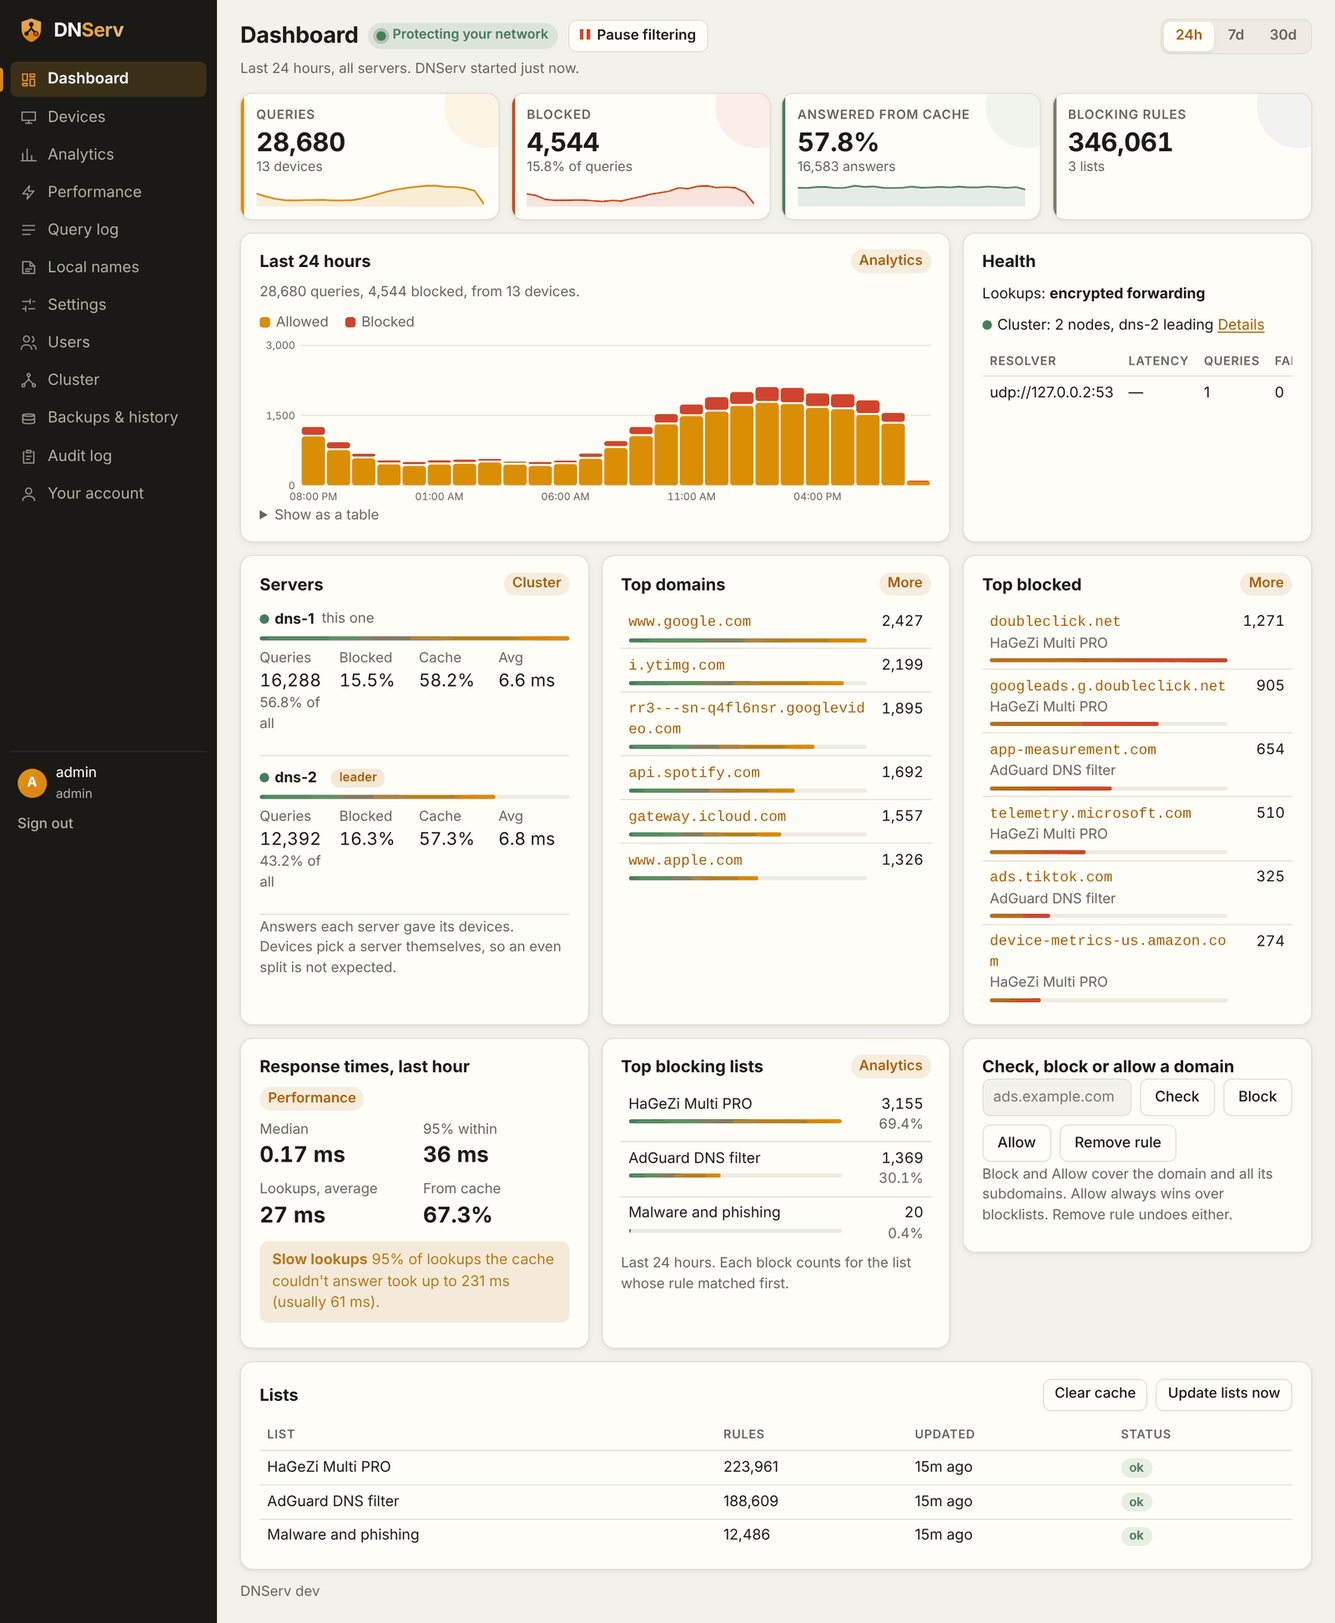
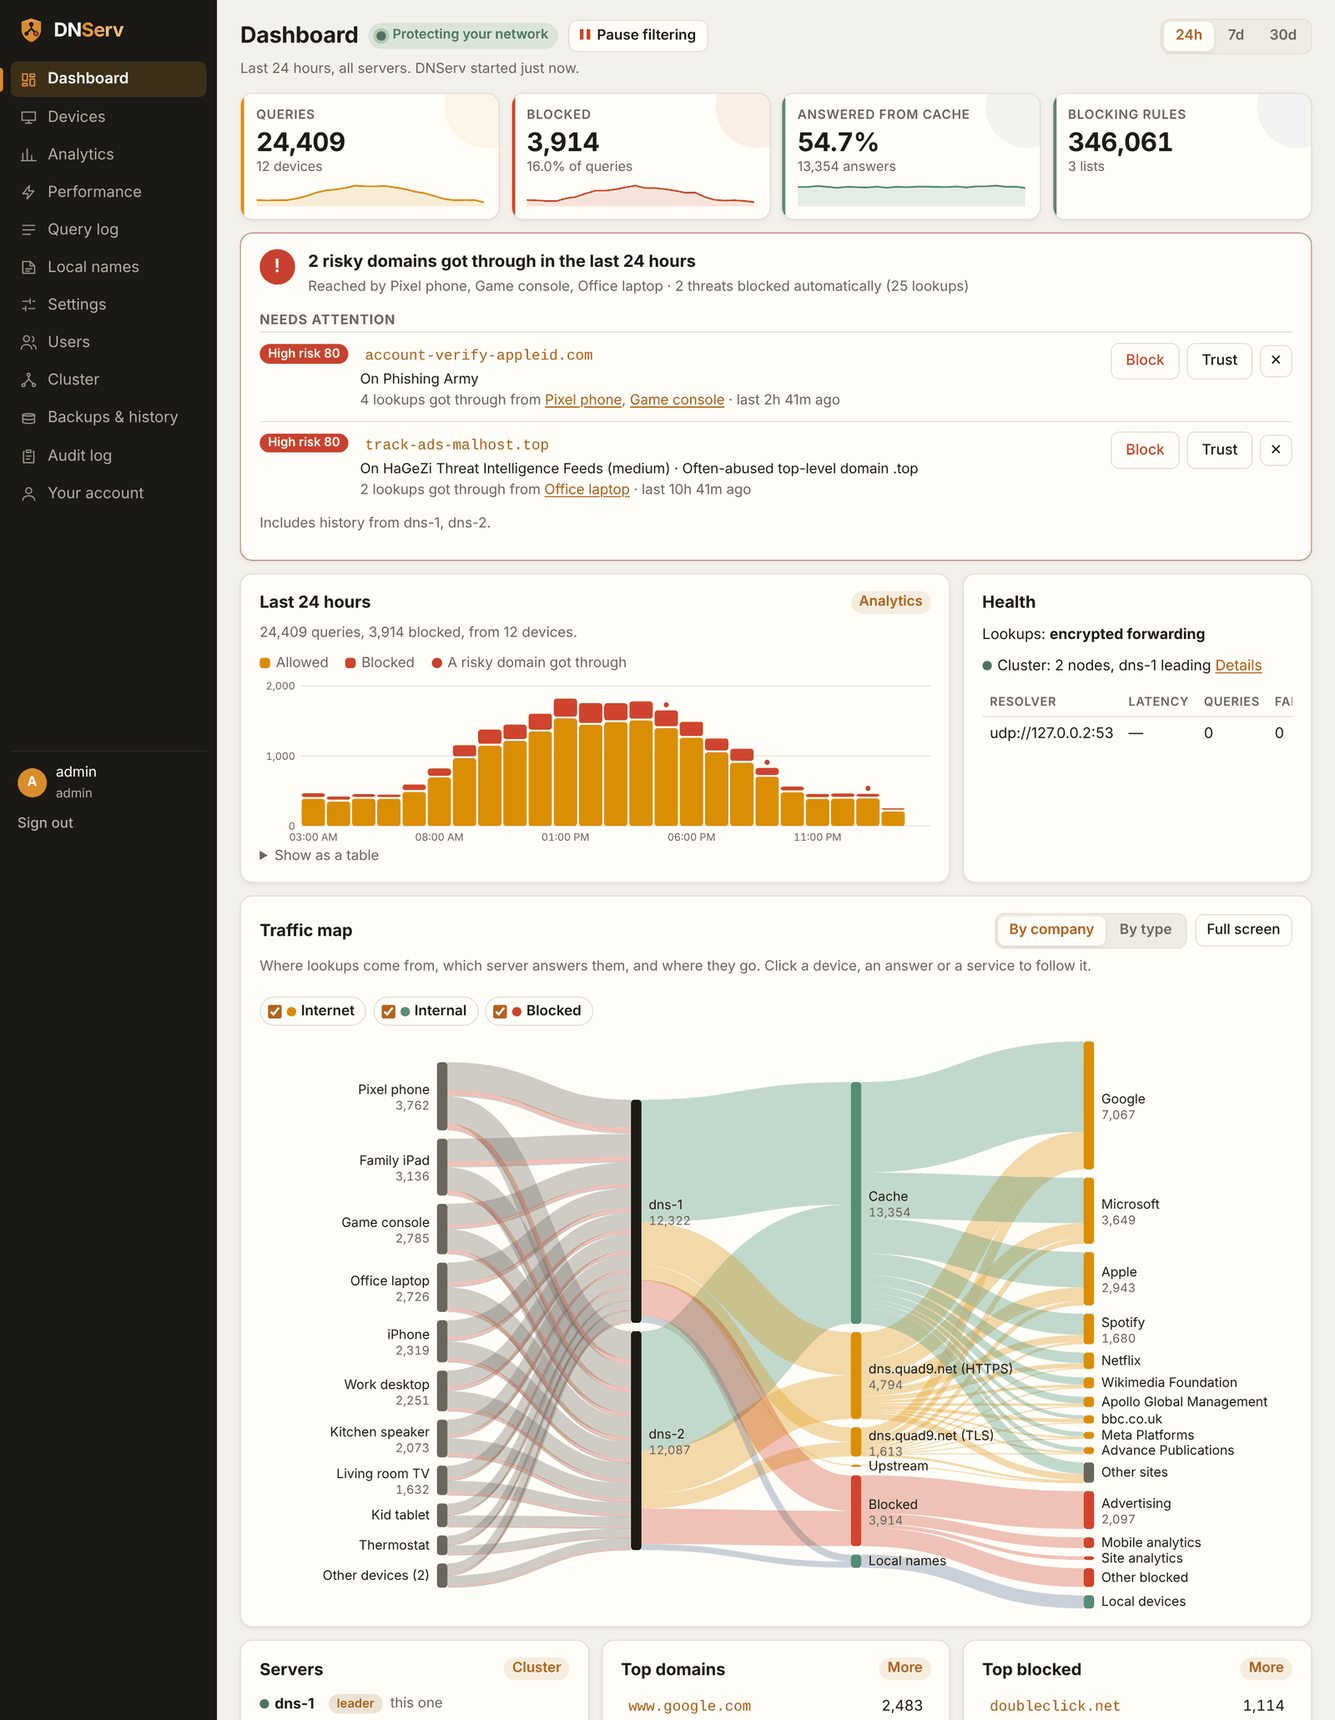
Document security overview, traffic map and risk scoring
Add docs/security.md (Security card, risk filter, how scores add up,
tuning presets), new screenshots, README and website sections, and the
new API endpoints.

Claude-Session: https://claude.ai/code/session_01KvRQSDP8d99xeGF8qB7DEA

diff --git a/site/index.html b/site/index.html
@@ -63,7 +63,7 @@ header nav a:hover { color: var(--text); text-decoration: none; }
 section { padding: 72px 0 0; }
 section h2 { font-size: 2rem; margin: 0 0 8px; letter-spacing: -.01em; }
 section p.sub { color: var(--muted); margin: 0 0 32px; max-width: 720px; }
-.grid { display: grid; grid-template-columns: repeat(auto-fill, minmax(250px, 1fr)); gap: 16px; }
+.grid { display: grid; grid-template-columns: repeat(auto-fill, minmax(300px, 1fr)); gap: 16px; }
 .card { background: var(--panel); border: 1px solid var(--line); border-radius: var(--radius); padding: 22px; }
 .card h3 { margin: 10px 0 6px; font-size: 1.05rem; }
 .card p { margin: 0; color: var(--muted); font-size: .95rem; }
@@ -136,7 +136,8 @@ footer .wrap { display: flex; gap: 16px; flex-wrap: wrap; justify-content: space
     <div class="card"><div class="ico"><svg viewBox="0 0 24 24" fill="none" stroke="currentColor" stroke-width="2" stroke-linecap="round" stroke-linejoin="round"><path d="M13 2 3 14h9l-1 8 10-12h-9z"/></svg></div><h3>Fast</h3><p>A two-layer cache, prefetching of popular names, and old answers kept ready if the internet drops.</p></div>
     <div class="card"><div class="ico red"><svg viewBox="0 0 24 24" fill="none" stroke="currentColor" stroke-width="2" stroke-linecap="round"><circle cx="12" cy="12" r="9"/><path d="m5.6 5.6 12.8 12.8"/></svg></div><h3>Blocks ads, trackers and malware</h3><p>Any hosts file, domain list or AdGuard-style list, with wildcards and regex, plus your own allow and block rules.</p></div>
     <div class="card"><div class="ico"><svg viewBox="0 0 24 24" fill="none" stroke="currentColor" stroke-width="2" stroke-linecap="round" stroke-linejoin="round"><rect x="3" y="4" width="18" height="12" rx="2"/><path d="M8 20h8M12 16v4"/></svg></div><h3>Rules per device</h3><p>Groups like Kids, with their own blocked services, safe search, and schedules for bedtime or homework.</p></div>
-    <div class="card"><div class="ico sage"><svg viewBox="0 0 24 24" fill="none" stroke="currentColor" stroke-width="2" stroke-linecap="round"><path d="M4 19V5M4 19h16M8 15v-4M12 15V8M16 15v-6"/></svg></div><h3>See what's going on</h3><p>Query log, analytics, response times and risk scores from public threat feeds, kept for 30 days.</p></div>
+    <div class="card"><div class="ico sage"><svg viewBox="0 0 24 24" fill="none" stroke="currentColor" stroke-width="2" stroke-linecap="round"><path d="M4 19V5M4 19h16M8 15v-4M12 15V8M16 15v-6"/></svg></div><h3>See what's going on</h3><p>Query log, analytics, response times, and a traffic map from every device through your servers to the services it reaches.</p></div>
+    <div class="card"><div class="ico red"><svg viewBox="0 0 24 24" fill="none" stroke="currentColor" stroke-width="2" stroke-linecap="round" stroke-linejoin="round"><path d="M12 3 4 6v6c0 5 3.5 8 8 9 4.5-1 8-4 8-9V6z"/><path d="M12 8v5M12 16h0"/></svg></div><h3>Spots threats</h3><p>Every lookup is scored against public malware and phishing feeds. See what got through, who reached it, and block it in one click.</p></div>
     <div class="card"><div class="ico sage"><svg viewBox="0 0 24 24" fill="none" stroke="currentColor" stroke-width="2" stroke-linecap="round" stroke-linejoin="round"><rect x="3" y="4" width="8" height="16" rx="2"/><rect x="13" y="4" width="8" height="16" rx="2"/><path d="M7 8h0M17 8h0"/></svg></div><h3>Keeps working when a server fails</h3><p>Run two or more nodes. Settings stay in sync, and any node can take over as leader.</p></div>
     <div class="card"><div class="ico"><svg viewBox="0 0 24 24" fill="none" stroke="currentColor" stroke-width="2" stroke-linecap="round" stroke-linejoin="round"><rect x="5" y="11" width="14" height="10" rx="2"/><path d="M8 11V7a4 4 0 0 1 8 0v4"/></svg></div><h3>Private</h3><p>Encrypted DNS to Cloudflare or Quad9, or its own recursive resolver (Unbound), optionally through a VPN.</p></div>
     <div class="card"><div class="ico"><svg viewBox="0 0 24 24" fill="none" stroke="currentColor" stroke-width="2" stroke-linecap="round" stroke-linejoin="round"><path d="M12 3 4 6v6c0 5 3.5 8 8 9 4.5-1 8-4 8-9V6z"/><path d="m9 12 2 2 4-4"/></svg></div><h3>Safe to run</h3><p>Two-factor sign-in for every account, admin, power-user and viewer roles, an audit log, encrypted backups, and HTTPS.</p></div>
@@ -148,12 +149,14 @@ footer .wrap { display: flex; gap: 16px; flex-wrap: wrap; justify-content: space
   <h2>A dashboard you'll actually open</h2>
   <p class="sub">Light and dark themes, made for a phone as much as a desktop.</p>
   <div class="gallery">
+    <figure><img src="images/security.png" alt="Security card" loading="lazy"><figcaption><b>Security</b> says whether anything risky got through, and who reached it.</figcaption></figure>
+    <figure><img src="images/traffic-map.png" alt="Traffic map" loading="lazy"><figcaption><b>Traffic map</b> follows lookups from devices to servers to services.</figcaption></figure>
     <figure><img src="images/query-log.png" alt="Query log" loading="lazy"><figcaption><b>Query log</b> searches every server's history.</figcaption></figure>
     <figure><img src="images/analytics.png" alt="Analytics" loading="lazy"><figcaption><b>Analytics</b> shows top domains, what blocked them, and busy devices.</figcaption></figure>
     <figure><img src="images/performance.png" alt="Performance" loading="lazy"><figcaption><b>Performance</b> tracks response times, upstream health and anything unusual.</figcaption></figure>
     <figure><img src="images/cluster.png" alt="Cluster" loading="lazy"><figcaption><b>Cluster</b> shows your servers, with leader controls and join codes.</figcaption></figure>
     <figure><img src="images/group.png" alt="Group settings with schedules" loading="lazy"><figcaption><b>Groups</b> get blocked services, safe search and schedules.</figcaption></figure>
-    <figure><img src="images/dashboard-light.png" alt="Light theme" loading="lazy"><figcaption><b>Light theme</b>, following your system setting.</figcaption></figure>
+    <figure><img src="images/scoring.png" alt="Tune risk scoring" loading="lazy"><figcaption><b>Risk scoring</b> explains every score, with presets and a preview when you tune it.</figcaption></figure>
   </div>
 </div></section>
 
@@ -187,6 +190,7 @@ docker logs dnserv 2>&amp;1 | grep setup_code</pre>
     <a href="https://github.com/prezmc/DNServ/blob/main/docs/deploy-two-servers.md">Two-server guide<span>Deploy and failure scenarios</span></a>
     <a href="https://github.com/prezmc/DNServ/blob/main/docs/clustering.md">Clustering<span>Nodes, witnesses, recovery</span></a>
     <a href="https://github.com/prezmc/DNServ/blob/main/docs/filtering.md">Filtering<span>Rules, services, safe search</span></a>
+    <a href="https://github.com/prezmc/DNServ/blob/main/docs/security.md">Security<span>Threat feeds and risk scores</span></a>
     <a href="https://github.com/prezmc/DNServ/blob/main/docs/https.md">Dashboard HTTPS<span>Self-signed, your own, or NPM</span></a>
     <a href="https://github.com/prezmc/DNServ/blob/main/docs/backups.md">Backups<span>Encrypted, scheduled, restorable</span></a>
     <a href="https://github.com/prezmc/DNServ/blob/main/docs/adguard-import.md">From AdGuard Home<span>What the importer brings</span></a>

diff --git a/docs/security.md b/docs/security.md
@@ -1,0 +1,126 @@
+# Security overview and risk scoring
+
+DNServ checks every domain your devices look up against public threat
+feeds and a few checks on the name itself, and gives it a risk score from
+0 to 100. **Scores never block anything.** They decide what the
+Dashboard, Analytics and the Query log point out, so you can decide what
+to block.
+
+<p align="center"><img src="images/security.png" alt="Security card on the Dashboard" width="800"></p>
+
+## What you see
+
+- **Dashboard → Security.** A verdict for the period: "All clear: nothing
+  risky got through", or how many high-risk domains your devices got
+  answers for, who reached them, and how many threats were blocked anyway.
+  **Needs attention** lists each one with why it's risky, the devices
+  (each opens its Query log) and when, and three buttons:
+  - **Block** blocks it and its subdomains for every device.
+  - **Trust** marks it as a false alarm: it scores 0 from then on.
+  - **Dismiss** hides it until a device reaches it again. Dismissals are
+    shared by every server.
+
+  The card also names any feed that isn't being checked (no abuse.ch key,
+  or a failed download).
+- **The queries chart** marks the hours when something risky got through.
+- **Analytics → Risky domains** lists the riskiest domains seen, for
+  everyone or one device.
+- **Query log** shows a badge on risky lookups (hover for why) and filters
+  by risk: low and above, medium and above, or high only. The CSV export
+  follows the filter.
+- **Domain details** show the score, the reasons and **how the score adds
+  up**, or that the domain was checked and nothing was found.
+
+## Where the data comes from
+
+| Source | Lists | Default points |
+|---|---|---|
+| [URLhaus](https://urlhaus.abuse.ch/) (abuse.ch) | Malware hosts | 90 |
+| [ThreatFox](https://threatfox.abuse.ch/) (abuse.ch) | Malware and command servers | 90 |
+| [Phishing Army](https://phishing.army/) | Phishing sites | 80 |
+| [HaGeZi Threat Intelligence Feeds](https://github.com/hagezi/dns-blocklists) (medium) | Malware, scams, command servers (covers subdomains) | 70 |
+| [Feodo Tracker](https://feodotracker.abuse.ch/) (abuse.ch) | Botnet command server addresses | 90 |
+| [Spamhaus DROP](https://www.spamhaus.org/drop/) | Hijacked or criminal networks | 85 |
+
+URLhaus and ThreatFox need a free abuse.ch Auth-Key: sign in at
+[auth.abuse.ch](https://auth.abuse.ch/), copy the key from your profile,
+and paste it under **Settings → abuse.ch key**. The key is shared with
+your other servers, never shown again and not part of backups.
+
+Each server downloads the sources itself, keeps them in `/data/threat`,
+and refreshes them twice a day (about 30 MB of memory). The lists are
+matched on your own servers, so your lookups are never sent anywhere.
+Turn the feeds off, or list trusted domains, under **Settings → Risk
+scoring**.
+
+## How a score adds up
+
+1. The strongest list that has the domain sets the score (its points).
+2. Each further list that has it adds 5.
+3. Name checks add points: an often-abused top-level domain (15), a
+   machine-generated look (25), look-alike international characters (15),
+   mostly digits (10), an unusually long name (10). On their own they add
+   at most 45, so a name alone reaches Medium at most; on top of a list,
+   at most 10. Domains of companies in AdGuard's companies database skip
+   the name checks.
+4. The total is capped at 100.
+
+Separately, when history is saved, each answer is checked: a domain that
+answers with an address on Feodo Tracker or Spamhaus DROP, or is an alias
+(CNAME) for a Medium-or-higher domain, gets that score if it is higher.
+
+**Levels:** Low is 1 to 39, Medium 40 to 69, High 70 and up. High-risk
+domains that get an answer go under Needs attention.
+
+**Settings → Risk scoring → How risk scores work** shows all of this from
+the numbers in force, so it stays right after you change them.
+
+## Tuning
+
+<p align="center"><img src="images/scoring.png" alt="Tune scoring" width="600"></p>
+
+**Settings → Risk scoring → Tune scoring** (needs "Manage blocklists")
+starts from a preset and lets you change every number:
+
+| Preset | What it does |
+|---|---|
+| Balanced | The defaults above |
+| Sensitive | Name checks count for more, further lists add 10, Medium starts at 30 and High at 60. More alerts, some false alarms |
+| Quieter | Name checks count half, HaGeZi gives 65, Medium starts at 50 and High at 80. Only strong evidence makes a domain High |
+
+Before you save, the dialog shows how many of the domains seen in the
+last 7 days would be at each level, and which would rise or drop. The
+scoring is a setting like any other: shared by every server, in settings
+history and backups, and **Back to defaults** resets it. Scores are worked
+out when they're shown, so a change applies to your whole history at
+once, except the answer checks, which are scored as lookups happen.
+
+In a config file:
+
+```yaml
+analytics:
+  threat_feeds: true
+  trusted_domains: [example.com]
+  risk_scoring:
+    feeds: {urlhaus: 90, threatfox: 90, phishingarmy: 80, hagezi-tif: 70, feodo: 90, drop4: 85, drop6: 85}
+    corroboration: 5
+    names: {tld: 15, generated: 25, lookalike: 15, digits: 10, long: 10}
+    name_cap: 45
+    name_cap_listed: 10
+    medium: 40
+    high: 70
+```
+
+Values left out keep their defaults; a feed at 0 is ignored.
+
+## Also
+
+- **On your lists.** A domain's details list every enabled blocklist with
+  a rule for it.
+- **VirusTotal.** Add your own free API key under Settings → VirusTotal to
+  get a **Check on VirusTotal** button in domain details. Only the domain
+  you click is sent, at most 4 a minute, and results are kept for a day.
+- **Domain types.** Each domain's type and owner (Advertising · Google)
+  come from AdGuard's companies database (CC BY-SA 4.0).
+
+[Back to the README](../README.md)

diff --git a/README.md b/README.md
@@ -19,7 +19,8 @@
 - **Fast.** About 51,000 queries a second on a 4-core machine, with a median answer of 0.14 ms. Popular names are prefetched before they expire, and old answers are served if the internet is down.
 - **Blocks ads, trackers and malware.** Use any hosts file, domain list or AdGuard-style list (wildcards and regex included), plus your own allow and block rules.
 - **Rules per device.** Put devices in groups like Kids, with their own blocked services, safe search, and schedules such as bedtime or homework time.
-- **Shows what's going on.** Query log, analytics, response times, and risk scores from public threat feeds, kept for 30 days.
+- **Shows what's going on.** Query log, analytics, response times and a traffic map from each device, through your servers, out to the services it reaches. History is kept for 30 days.
+- **Spots threats.** Every lookup is scored against public malware and phishing feeds. The Dashboard tells you when something risky got through, who reached it, and lets you block it in one click. You can see and tune how scores add up.
 - **Keeps working when a server fails.** Run two or more nodes. Settings stay in sync and any node can take over.
 - **Private.** Uses encrypted DNS to Cloudflare by default, or resolves on its own with the bundled Unbound, optionally through a VPN.
 - **Safe to run.** Two-factor sign-in is required for every account. Roles are admin, power user and viewer. Every change is in the audit log, and backups are encrypted.
@@ -60,9 +61,11 @@ Then add the second server as your router's second DNS server. To keep taking ch
 
 | | |
 |---|---|
+| <img src="docs/images/security.png" alt="Security card" width="420"><br>**Security** says whether anything risky got through, and who reached it | <img src="docs/images/traffic-map.png" alt="Traffic map" width="420"><br>**Traffic map** follows lookups from devices to servers to services |
 | <img src="docs/images/query-log.png" alt="Query log" width="420"><br>**Query log** searches every server's history | <img src="docs/images/analytics.png" alt="Analytics" width="420"><br>**Analytics** shows top domains, what blocked them, and busy devices |
 | <img src="docs/images/performance.png" alt="Performance" width="420"><br>**Performance** shows response times, upstream health and anything unusual | <img src="docs/images/cluster.png" alt="Cluster" width="420"><br>**Cluster** shows your nodes, with leader controls and join codes |
-| <img src="docs/images/group.png" alt="Group with schedules" width="420"><br>**Groups** have blocked services, safe search and schedules | <img src="docs/images/dashboard-light.png" alt="Light theme" width="420"><br>**Light theme**, which follows your system setting |
+| <img src="docs/images/group.png" alt="Group with schedules" width="420"><br>**Groups** have blocked services, safe search and schedules | <img src="docs/images/scoring.png" alt="Tune risk scoring" width="420"><br>**Risk scoring** explains every score, with presets and a preview when you tune it |
+| <img src="docs/images/dashboard-light.png" alt="Light theme" width="420"><br>**Light theme**, which follows your system setting | |
 
 ## Documentation
 
@@ -74,6 +77,7 @@ Then add the second server as your router's second DNS server. To keep taking ch
 | [Two-server guide](docs/deploy-two-servers.md) | Step-by-step deploy and failure scenarios |
 | [Two floating DNS addresses](docs/floating-dns-addresses.md) | More than two nodes behind keepalived |
 | [Filtering](docs/filtering.md) | Rule syntax, blocked services, safe search, stopping bypass |
+| [Security and risk scoring](docs/security.md) | Threat feeds, the Security card, how scores add up, tuning |
 | [Dashboard HTTPS](docs/https.md) | Self-signed, your own certificate, or one from Nginx Proxy Manager |
 | [Backups and history](docs/backups.md) | Encrypted backups, schedules, restore |
 | [Moving from AdGuard Home](docs/adguard-import.md) | What the importer brings across |

diff --git a/docs/api.md b/docs/api.md
@@ -23,9 +23,11 @@ plus the `X-CSRF-Token` header from the sign-in response; scripts use
 | Devices | `GET`/`POST /devices` `{name, addrs, group}`, `PUT`/`DELETE /devices/{id}` |
 | Groups | `GET`/`POST /groups` `{name, rules, skip_blocklists, schedules: [{name, days, start, end, block_all, rules}], devices}`, `PUT`/`DELETE /groups/{id}` |
 | Recent queries | `GET /queries?client=&search=&result=&before=&limit=` (`client` is an IP or device id; `result` is `blocked`, `allowed`, `failed`, …) |
-| Analytics | `GET /analytics/summary`, `/analytics/top?by=domains\|blocked\|clients\|lists`, `/analytics/performance`, `/analytics/domain?name=`, `/analytics/queries?search=&result=&before=`, `/analytics/export` (CSV), `/analytics/risky`, `/analytics/intel` (sources), `/analytics/alsoon?name=`, `POST /analytics/virustotal?name=`; `GET`/`PUT /virustotal` `{key}` (never returned). The history views take `range=1h\|24h\|7d\|30d\|90d` and `client=` (IP or device id), and merge every node's history |
+| Analytics | `GET /analytics/summary`, `/analytics/top?by=domains\|blocked\|clients\|lists`, `/analytics/performance`, `/analytics/domain?name=`, `/analytics/queries?search=&result=&before=`, `/analytics/export` (CSV), `/analytics/risky`, `/analytics/intel` (sources), `/analytics/alsoon?name=`, `POST /analytics/virustotal?name=`; `GET`/`PUT /virustotal` `{key}` (never returned); `PUT /abusech` `{key}` (never returned). `/analytics/queries` and `/analytics/export` also take `risk=low\|medium\|high`. The history views take `range=1h\|24h\|7d\|30d\|90d` and `client=` (IP or device id), and merge every node's history |
 | Settings history | `GET /config/versions`, `GET /config/versions/{id}` (with the changes going back would make), `POST /config/versions/{id}/restore` |
 | Backups | `GET /backups`, `POST /backups/passphrase` `{passphrase, password}`, `PUT /backups/schedule` `{every: daily\|weekly\|"", at: "HH:MM", keep, offsite}`, `POST /backups/download`, `GET /backups/files/{local\|offsite}/{name}`, `POST /backups/restore` (multipart: `file`, `passphrase`, `password`) |
+| Security and traffic | `GET /analytics/security` (verdict, high-risk domains that got answers and who reached them, threats blocked, risky hours), `POST /analytics/dismiss` `{name, undo}` (domains.allowblock), `GET /analytics/flow?group=company\|type` (traffic map). Take `range=` and `client=` like the other history views |
+| Risk scoring | `GET /analytics/scoring` (scoring in force, defaults, presets, sources, name checks), `POST /analytics/scoring/preview` with a scoring (levels now vs proposed over the last 7 days, and what would rise or drop). Save with `PATCH /settings` `{risk_scoring}` (lists.manage); reset with `POST /settings/reset` `{fields: ["risk_scoring"]}` |
 | Cluster | `GET /cluster`, `POST /cluster/join-codes` `{host}`, `PUT /cluster/nodes/{id}` `{name, never_leader}`, `DELETE /cluster/nodes/{id}`, `POST /cluster/preferred` `{id}`, `POST /cluster/transfer` `{to}`, `POST /cluster/recover` `{password, accept_risk}`, `POST /cluster/join` `{join_code, host, password}` |
 | Status and audit | `GET /status`, `GET /audit` |
 
